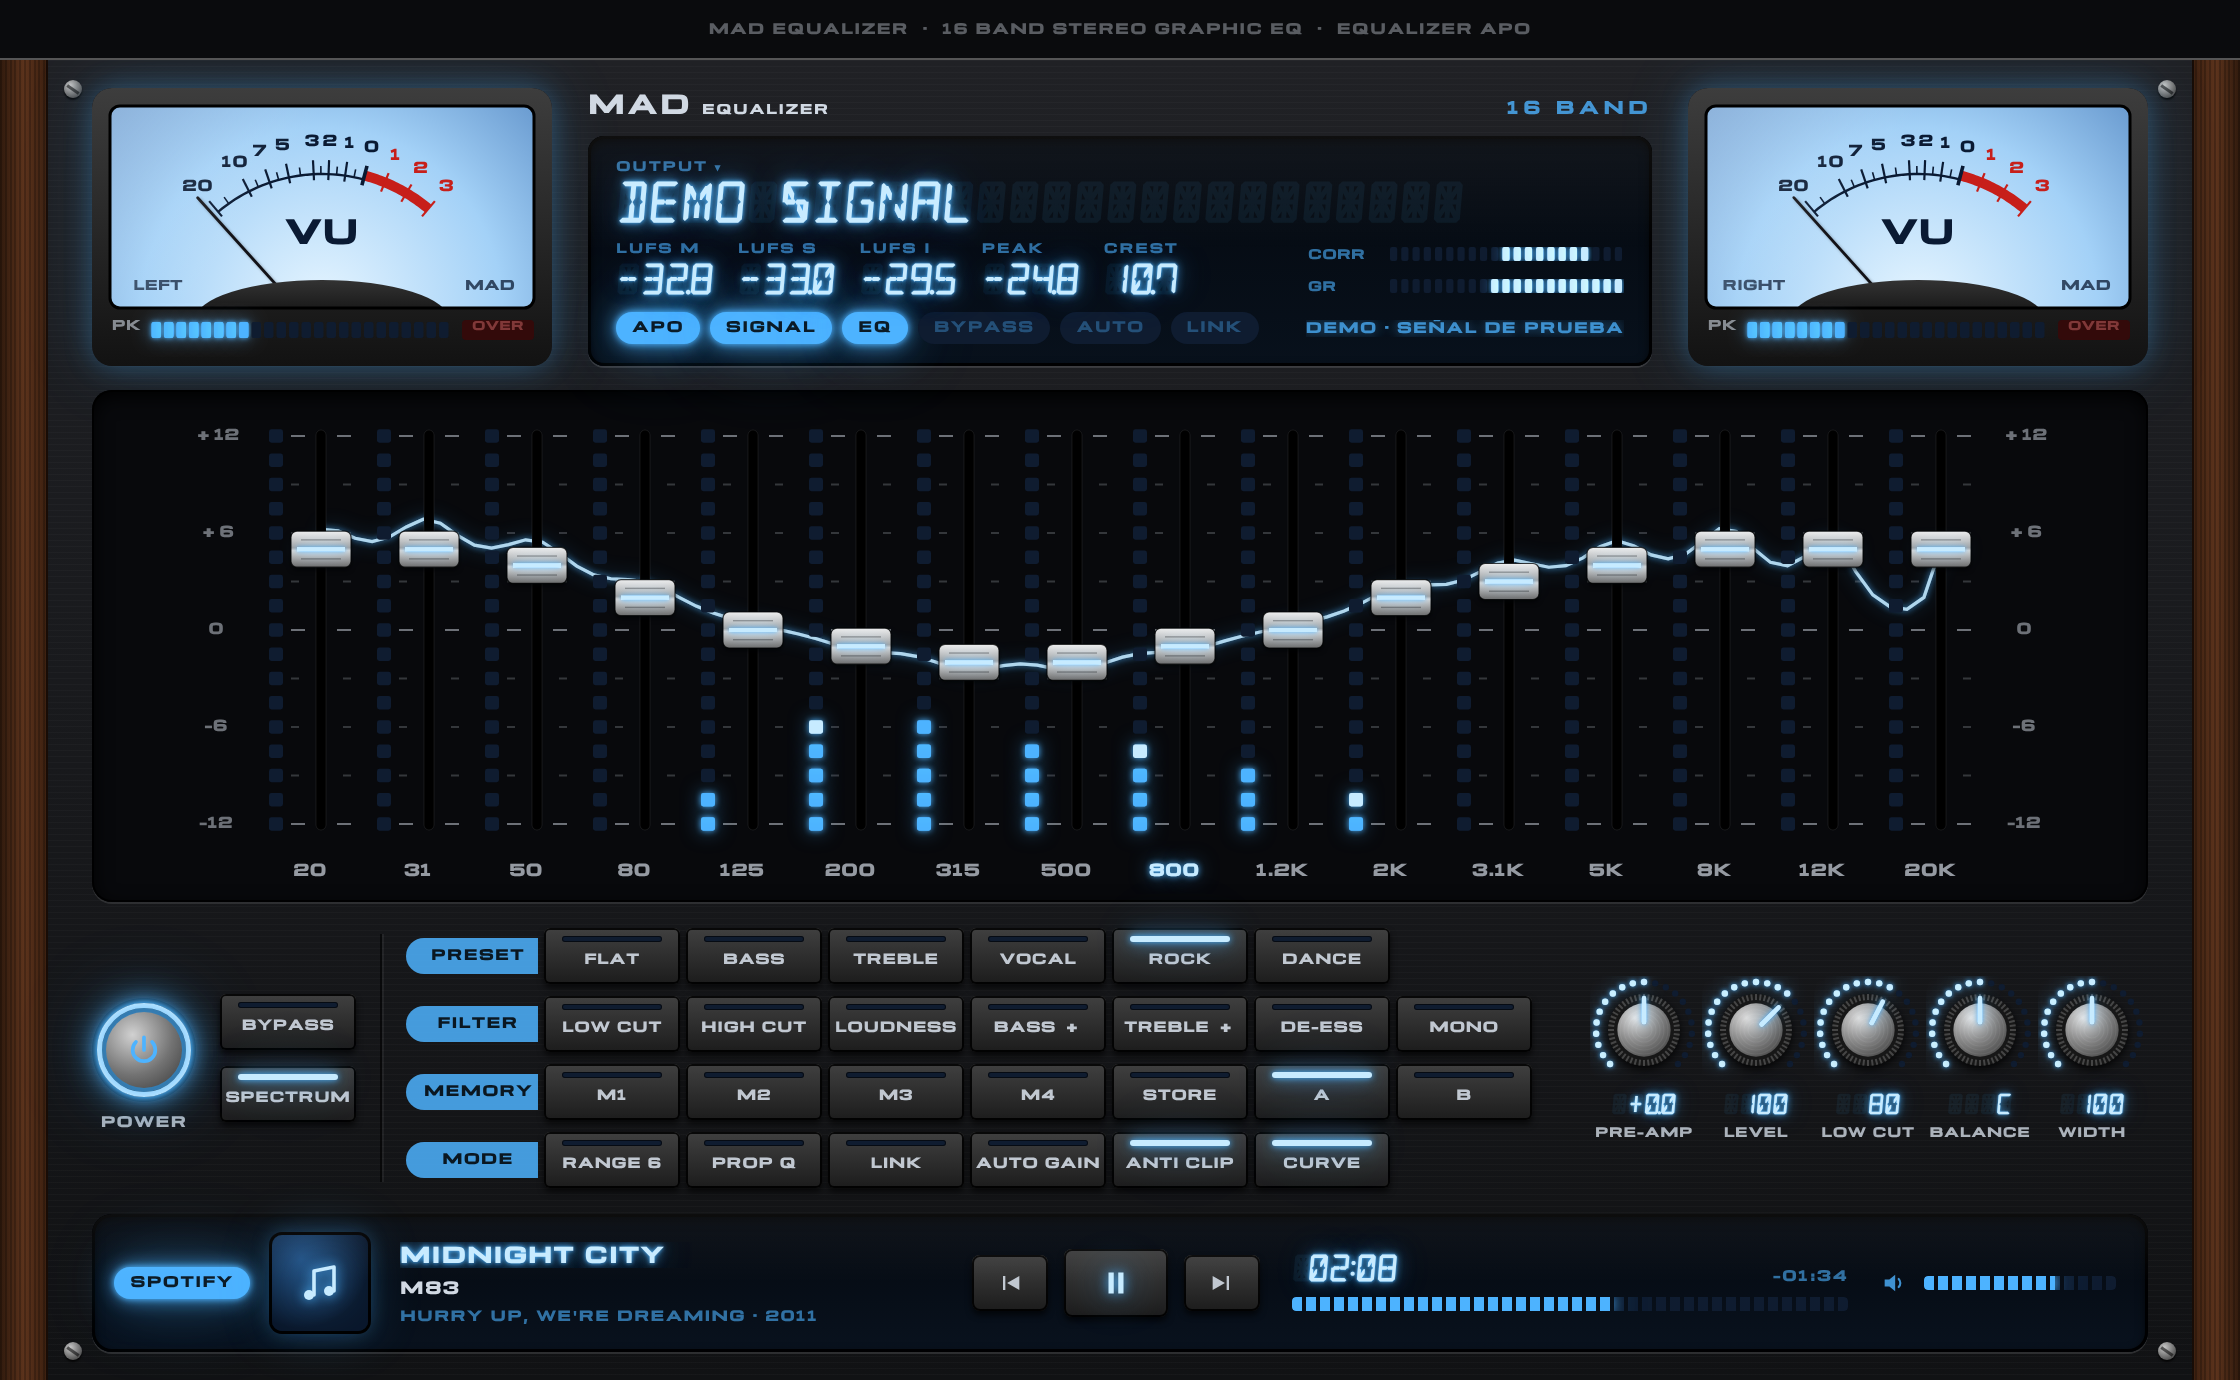
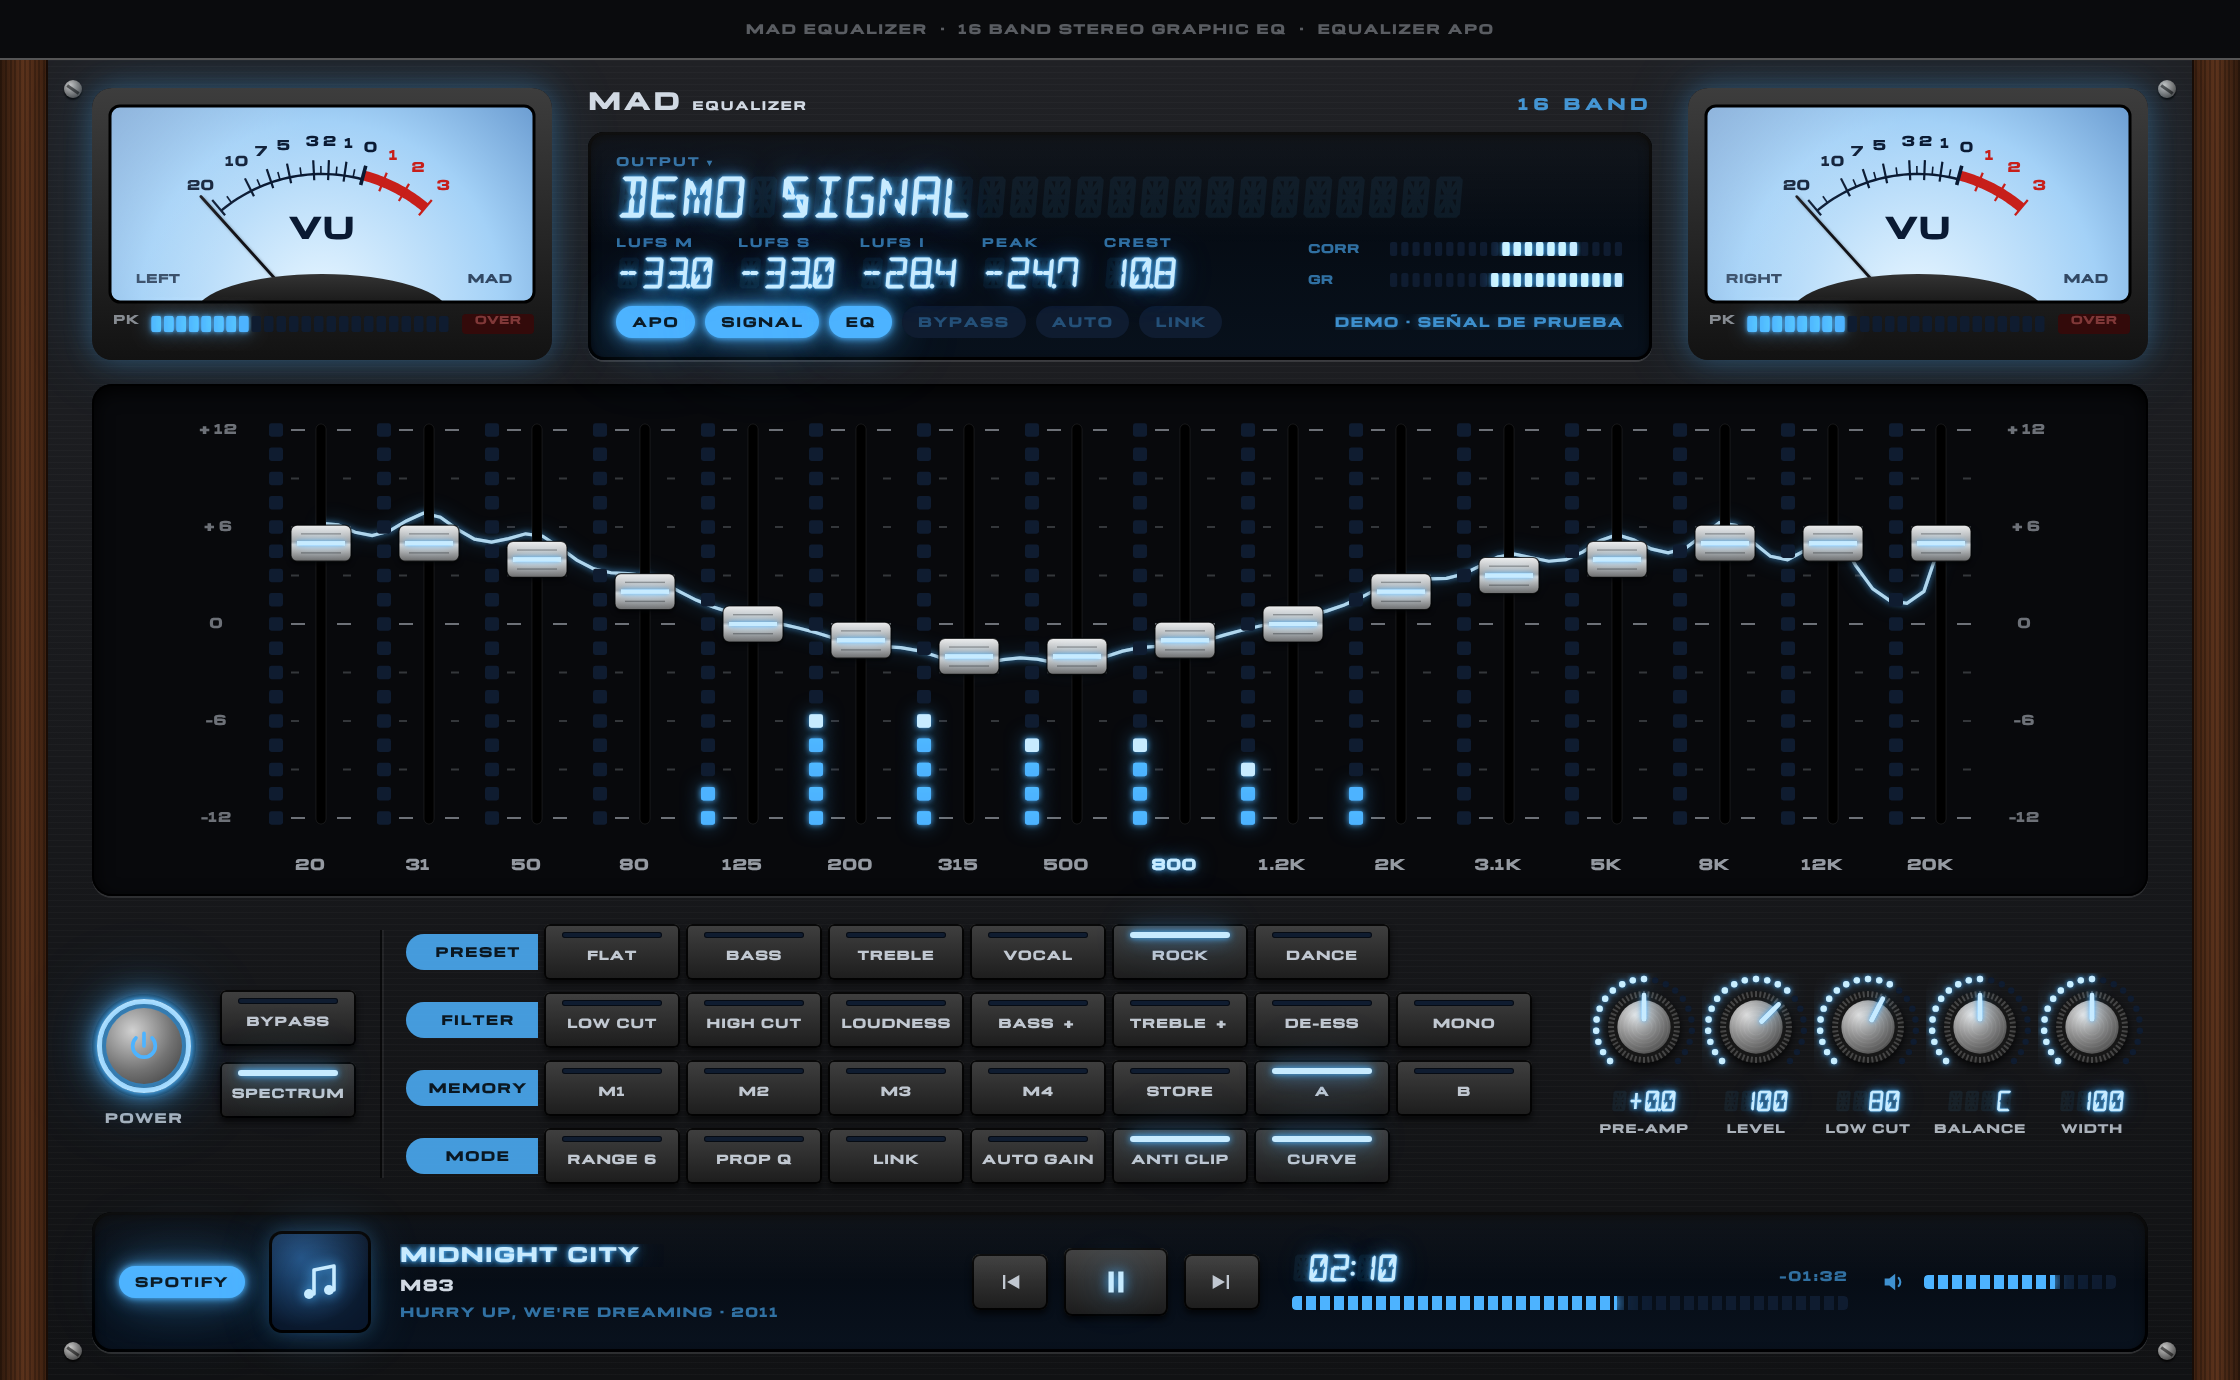
style: reducir un 10 % las tipografías
Tamaños de texto de la interfaz (CSS, canvas de Windows y macOS) al 90 %; los displays LCD de segmentos
no cambian.

Claude-Session: https://claude.ai/code/session_017Z7sUdS3c7HCSuU7CJC8Vt

diff --git a/windows/renderer/style.css b/windows/renderer/style.css
@@ -19,7 +19,7 @@ html, body { margin: 0; width: 1120px; height: 690px; overflow: hidden; backgrou
   text-rendering: geometricPrecision; -webkit-font-smoothing: antialiased; }
 button { font: inherit; color: inherit; background: none; border: 0; padding: 0; cursor: default; }
 .grow { flex: 1; }
-.silk { font-size: 6.1px; letter-spacing: 0.5px; color: rgba(209,217,227,0.8); }
+.silk { font-size: 5.5px; letter-spacing: 0.5px; color: rgba(209,217,227,0.8); }
 
 /* Barra superior: arrastra la ventana; en Windows los botones nativos se dibujan encima, a la derecha */
 #top { height: 30px; display: flex; align-items: center; justify-content: center; -webkit-app-region: drag;
@@ -48,9 +48,9 @@ header { display: flex; gap: 18px; align-items: flex-start; }
 canvas.meter { width: 230px; height: 159px; border-radius: 10px; box-shadow: 0 0 14px rgba(77,179,255,0.3), 0 0 36px rgba(77,179,255,0.16); flex: none; }
 .center { flex: 1; display: flex; flex-direction: column; gap: 8px; min-width: 0; }
 .brand { display: flex; align-items: baseline; gap: 5px; }
-.brand .logo { font-size: 11.1px; letter-spacing: 1px; color: var(--silk); }
-.brand .sub { font-size: 5.6px; letter-spacing: 0.6px; color: var(--silk); } /* la mitad que MAD */
-.brand .bands { font-size: 7.4px; letter-spacing: 2px; color: rgba(77,179,255,0.8); }
+.brand .logo { font-size: 10.0px; letter-spacing: 1px; color: var(--silk); }
+.brand .sub { font-size: 5.0px; letter-spacing: 0.6px; color: var(--silk); } /* la mitad que MAD */
+.brand .bands { font-size: 6.7px; letter-spacing: 2px; color: rgba(77,179,255,0.8); }
 
 .display { position: relative; padding: 11px 14px; border-radius: 8px; display: flex; flex-direction: column; gap: 9px;
   background: linear-gradient(180deg, rgb(4,8,14), rgb(8,17,28));
@@ -61,7 +61,7 @@ canvas.meter { width: 230px; height: 159px; border-radius: 10px; box-shadow: 0 0
 .display .r2 { gap: 12px; }
 .display .r3 { align-items: center; gap: 5px; }
 .field { display: flex; flex-direction: column; gap: 4px; text-align: left; }
-.field label { font-size: 5.5px; letter-spacing: 0.8px; color: rgba(77,179,255,0.6); }
+.field label { font-size: 5.0px; letter-spacing: 0.8px; color: rgba(77,179,255,0.6); }
 .field.link:hover label { color: var(--led-core); }
 
 /* Display de 14 segmentos: celdas "fantasma" apagadas detrás del texto encendido */
@@ -73,13 +73,13 @@ canvas.meter { width: 230px; height: 159px; border-radius: 10px; box-shadow: 0 0
 
 .bars { display: flex; flex-direction: column; gap: 8px; padding-top: 3px; }
 .bar { display: flex; align-items: center; gap: 6px; }
-.bar label { width: 34px; font-size: 5.5px; color: rgba(77,179,255,0.6); }
+.bar label { width: 34px; font-size: 5.0px; color: rgba(77,179,255,0.6); }
 .bar canvas { width: 118px; height: 7px; }
 
-.lamp { font-size: 6.1px; letter-spacing: 0.6px; padding: 0 8px; height: 16px; line-height: 16px; border-radius: 8px;
+.lamp { font-size: 5.5px; letter-spacing: 0.6px; padding: 0 8px; height: 16px; line-height: 16px; border-radius: 8px;
   color: rgba(77,179,255,0.35); background: var(--led-off); white-space: nowrap; }
 .lamp.on { color: rgba(0,0,0,0.85); background: var(--led); box-shadow: var(--bloom-box); }
-.status { text-shadow: 0 0 6px rgba(77,179,255,0.55); font-size: 6.1px; letter-spacing: 0.5px; color: rgba(77,179,255,0.75); white-space: nowrap; overflow: hidden; text-overflow: ellipsis; }
+.status { text-shadow: 0 0 6px rgba(77,179,255,0.55); font-size: 5.5px; letter-spacing: 0.5px; color: rgba(77,179,255,0.75); white-space: nowrap; overflow: hidden; text-overflow: ellipsis; }
 
 /* Faders */
 .well { border-radius: 10px; background: rgb(8,9,12); padding: 0 0 4px;
@@ -103,11 +103,11 @@ canvas.meter { width: 230px; height: 159px; border-radius: 10px; box-shadow: 0 0
 .rows { display: flex; flex-direction: column; gap: 6px; }
 .rows .row { display: flex; gap: 3px; align-items: flex-start; }
 .pill { width: 66px; height: 18px; margin-top: 5px; padding: 0 3px 0 9px; text-align: center; line-height: 18px; white-space: nowrap;
-  font-size: 6.1px; letter-spacing: 0.5px; color: rgba(0,0,0,0.85);
+  font-size: 5.5px; letter-spacing: 0.5px; color: rgba(0,0,0,0.85);
   background: rgba(77,179,255,0.85); border-radius: 9px 0 0 9px; }
 
 .key { display: flex; flex-direction: column; align-items: center; }
-.key button { position: relative; width: 68px; height: 28px; padding-top: 3px; border-radius: 3px; font-size: 5.9px; letter-spacing: 0.2px; white-space: nowrap;
+.key button { position: relative; width: 68px; height: 28px; padding-top: 3px; border-radius: 3px; font-size: 5.3px; letter-spacing: 0.2px; white-space: nowrap;
   color: rgba(209,217,227,0.9);
   background: linear-gradient(180deg, rgb(64,64,64), rgb(28,28,28));
   box-shadow: inset 0 0 0 1px rgba(0,0,0,0.9), inset 0 2px 0 -1px rgba(255,255,255,0.13), 0 2px 3px rgba(0,0,0,0.65); }
@@ -125,7 +125,7 @@ canvas.meter { width: 230px; height: 159px; border-radius: 10px; box-shadow: 0 0
 .knobs .knob { width: 56px; }
 .knob { display: flex; flex-direction: column; align-items: center; gap: 5px; }
 .knob canvas { width: 54px; height: 54px; }
-.knob .silk { font-size: 5.5px; letter-spacing: 0.2px; }
+.knob .silk { font-size: 5.0px; letter-spacing: 0.2px; }
 
 /* Reproductor: aparece abajo cuando se detecta una app de música */
 .player { display: flex; align-items: center; gap: 16px; height: 70px; padding: 0 16px; border-radius: 10px;
@@ -138,9 +138,9 @@ canvas.meter { width: 230px; height: 159px; border-radius: 10px; box-shadow: 0 0
   background: radial-gradient(circle at 30% 25%, rgb(32,78,128), rgb(10,24,44) 70%); box-shadow: 0 0 0 1.5px #000, 0 0 10px rgba(77,179,255,0.35), 0 0 28px rgba(77,179,255,0.2); }
 .player .art svg { width: 24px; height: 24px; filter: drop-shadow(0 0 3px var(--led)) drop-shadow(0 0 9px rgba(77,179,255,0.6)); }
 .player .tags { text-transform: uppercase; width: 270px; display: flex; flex-direction: column; gap: 5px; min-width: 0; }
-.player .t-title { font-size: 9.2px; letter-spacing: 0.4px; color: var(--led-core); text-shadow: var(--bloom-text); white-space: nowrap; overflow: hidden; text-overflow: ellipsis; }
-.player .t-artist { font-size: 7.1px; letter-spacing: 0.6px; color: var(--silk); white-space: nowrap; }
-.player .t-album { font-size: 6.0px; letter-spacing: 0.5px; color: rgba(77,179,255,0.6); white-space: nowrap; overflow: hidden; text-overflow: ellipsis; }
+.player .t-title { font-size: 8.3px; letter-spacing: 0.4px; color: var(--led-core); text-shadow: var(--bloom-text); white-space: nowrap; overflow: hidden; text-overflow: ellipsis; }
+.player .t-artist { font-size: 6.4px; letter-spacing: 0.6px; color: var(--silk); white-space: nowrap; }
+.player .t-album { font-size: 5.4px; letter-spacing: 0.5px; color: rgba(77,179,255,0.6); white-space: nowrap; overflow: hidden; text-overflow: ellipsis; }
 .transport { display: flex; align-items: center; gap: 8px; }
 .tbtn { width: 38px; height: 28px; border-radius: 4px; display: flex; align-items: center; justify-content: center; color: rgba(209,217,227,0.9);
   background: linear-gradient(180deg, rgb(64,64,64), rgb(28,28,28));
@@ -150,8 +150,8 @@ canvas.meter { width: 230px; height: 159px; border-radius: 10px; box-shadow: 0 0
 .tbtn.big svg { width: 18px; height: 18px; filter: drop-shadow(0 0 3px var(--led)) drop-shadow(0 0 9px rgba(77,179,255,0.6)); }
 .progress { flex: 1; display: flex; flex-direction: column; gap: 6px; min-width: 0; }
 .times { display: flex; justify-content: space-between; align-items: baseline; }
-.seg.tm { font-size: 14.9px; color: var(--led-core); text-shadow: var(--bloom-text); }
-.dur { font-size: 6.1px; color: rgba(77,179,255,0.6); letter-spacing: 0.6px; }
+.seg.tm { font-size: 13.4px; color: var(--led-core); text-shadow: var(--bloom-text); }
+.dur { font-size: 5.5px; color: rgba(77,179,255,0.6); letter-spacing: 0.6px; }
 .pbar, .vbar { height: 7px; border-radius: 2px; background: var(--led-off); position: relative; overflow: hidden;
   -webkit-mask-image: repeating-linear-gradient(90deg, #000 0 5px, transparent 5px 7px); }
 .pbar i, .vbar i { position: absolute; left: 0; top: 0; bottom: 0; background: var(--led); box-shadow: 0 0 6px var(--led), 0 0 16px rgba(77,179,255,0.55), 0 0 32px rgba(77,179,255,0.25); }
@@ -160,5 +160,5 @@ canvas.meter { width: 230px; height: 159px; border-radius: 10px; box-shadow: 0 0
 .vol .vbar { flex: 1; }
 .player .vol.hidden { visibility: hidden; }
 .player.empty .art, .player.empty .tags, .player.empty .transport, .player.empty .progress, .player.empty .vol { opacity: 0.35; }
-.player .hint { font-size: 6.8px; letter-spacing: 0.6px; color: rgba(77,179,255,0.7); }
+.player .hint { font-size: 6.1px; letter-spacing: 0.6px; color: rgba(77,179,255,0.7); }
 

diff --git a/macos/UI.swift b/macos/UI.swift
@@ -19,7 +19,7 @@ extension Font {
     /// MAD Microgramma Black (derivada de Michroma, SIL OFL): extendida y pesada al estilo Microgramma Bold Extended.
     /// Es mucho más ancha que una
     /// fuente normal, así que los tamaños se escalan para conservar la composición.
-    static func wide(_ size: CGFloat) -> Font { .custom("MADMicrogramma-Black", size: size * 0.64 * 0.99) }
+    static func wide(_ size: CGFloat) -> Font { .custom("MADMicrogramma-Black", size: size * 0.64 * 0.89) }
     /// DSEG14 Classic Italic: display de 14 segmentos.
     static func seg(_ size: CGFloat) -> Font { .custom("DSEG14Classic-Italic", size: size) }
 }

diff --git a/windows/renderer/draw.js b/windows/renderer/draw.js
@@ -5,7 +5,7 @@ export const C = {
   led: 'rgb(77,179,255)', ledCore: 'rgb(199,235,255)', ledOff: 'rgb(15,28,48)',
   silk: 'rgb(209,217,227)', ink: 'rgb(10,26,51)', red: 'rgb(199,31,26)', redOff: 'rgb(51,10,10)',
 };
-export const wide = (size) => `900 ${size * 0.64 * 0.99}px MADMicrogramma`;
+export const wide = (size) => `900 ${size * 0.64 * 0.89}px MADMicrogramma`;
 const rad = (d) => d * Math.PI / 180;
 
 /** Ajusta el canvas a la densidad de píxeles y devuelve un contexto en px CSS. */
